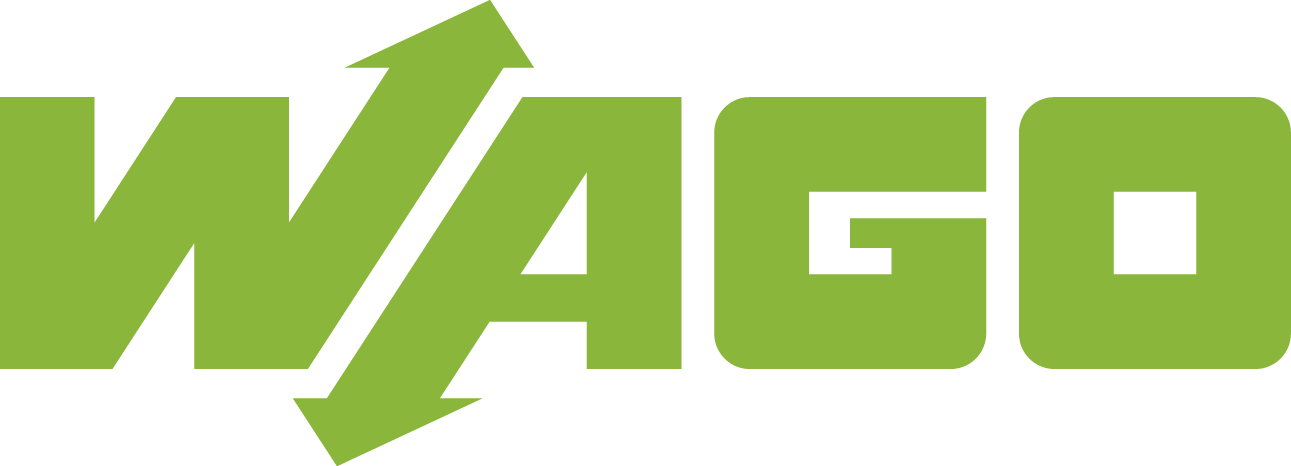
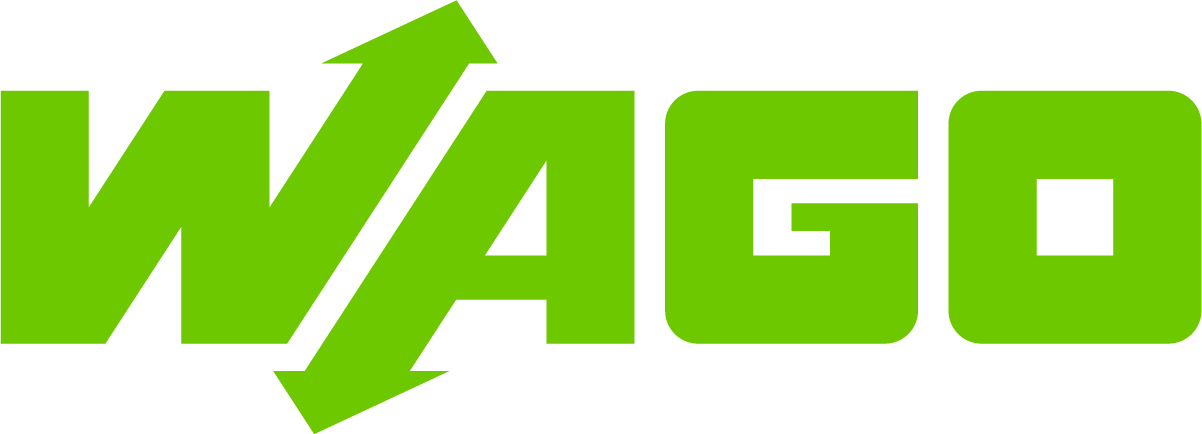
CI changes

diff --git a/_sass/wago.scss b/_sass/wago.scss
@@ -14,12 +14,12 @@ $grey-0:           #e0ddd9 !default;
 $grey-1:           #cdcac6 !default;
 $grey-2:           #afadaa !default;
 $grey-3:           #848380 !default;
-$grey-4:           #62615e !default;
+$grey-4:           #1F2837 !default;
 $grey-color:       $grey-2 !default;
 $grey-color-light: $grey-0 !default;
 $grey-color-dark:  $grey-4 !default;
 $orange-color:     #f66a0a !default;
-$brand-color:      #8bb63b !default;
+$brand-color:      #6ec800 !default;
 $white:            #ffffff !default;
 $text-color:       #111 !default;
 $background-color: $white !default;
